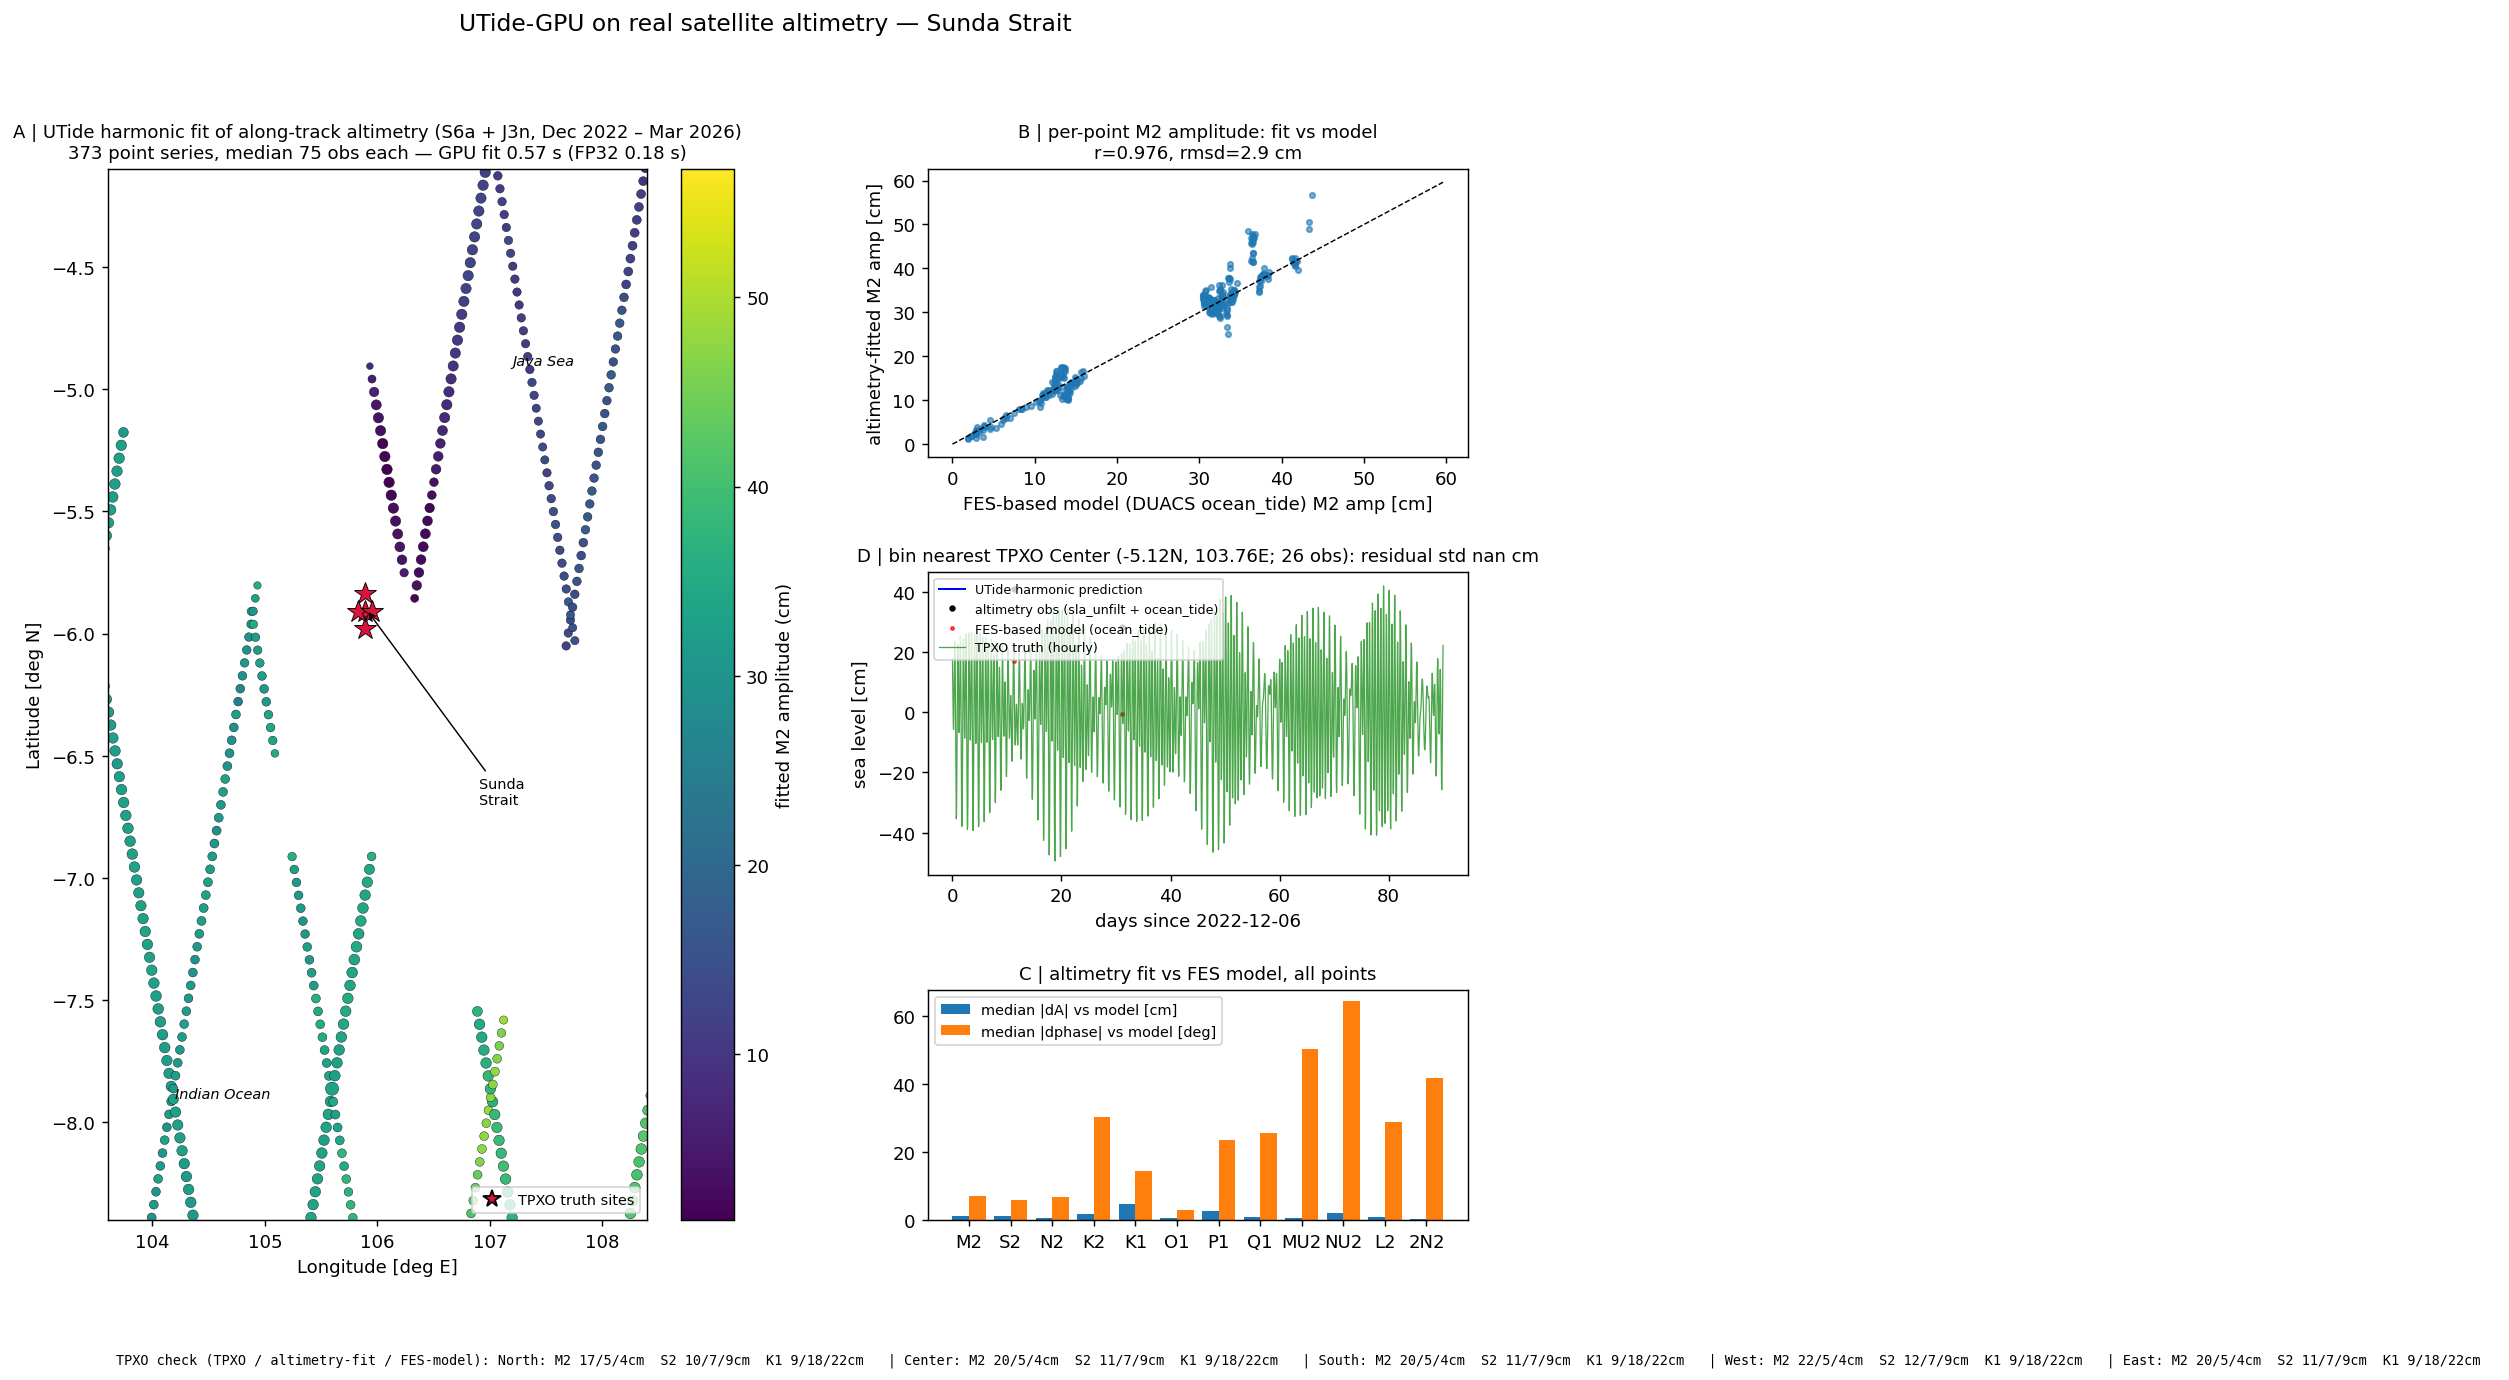
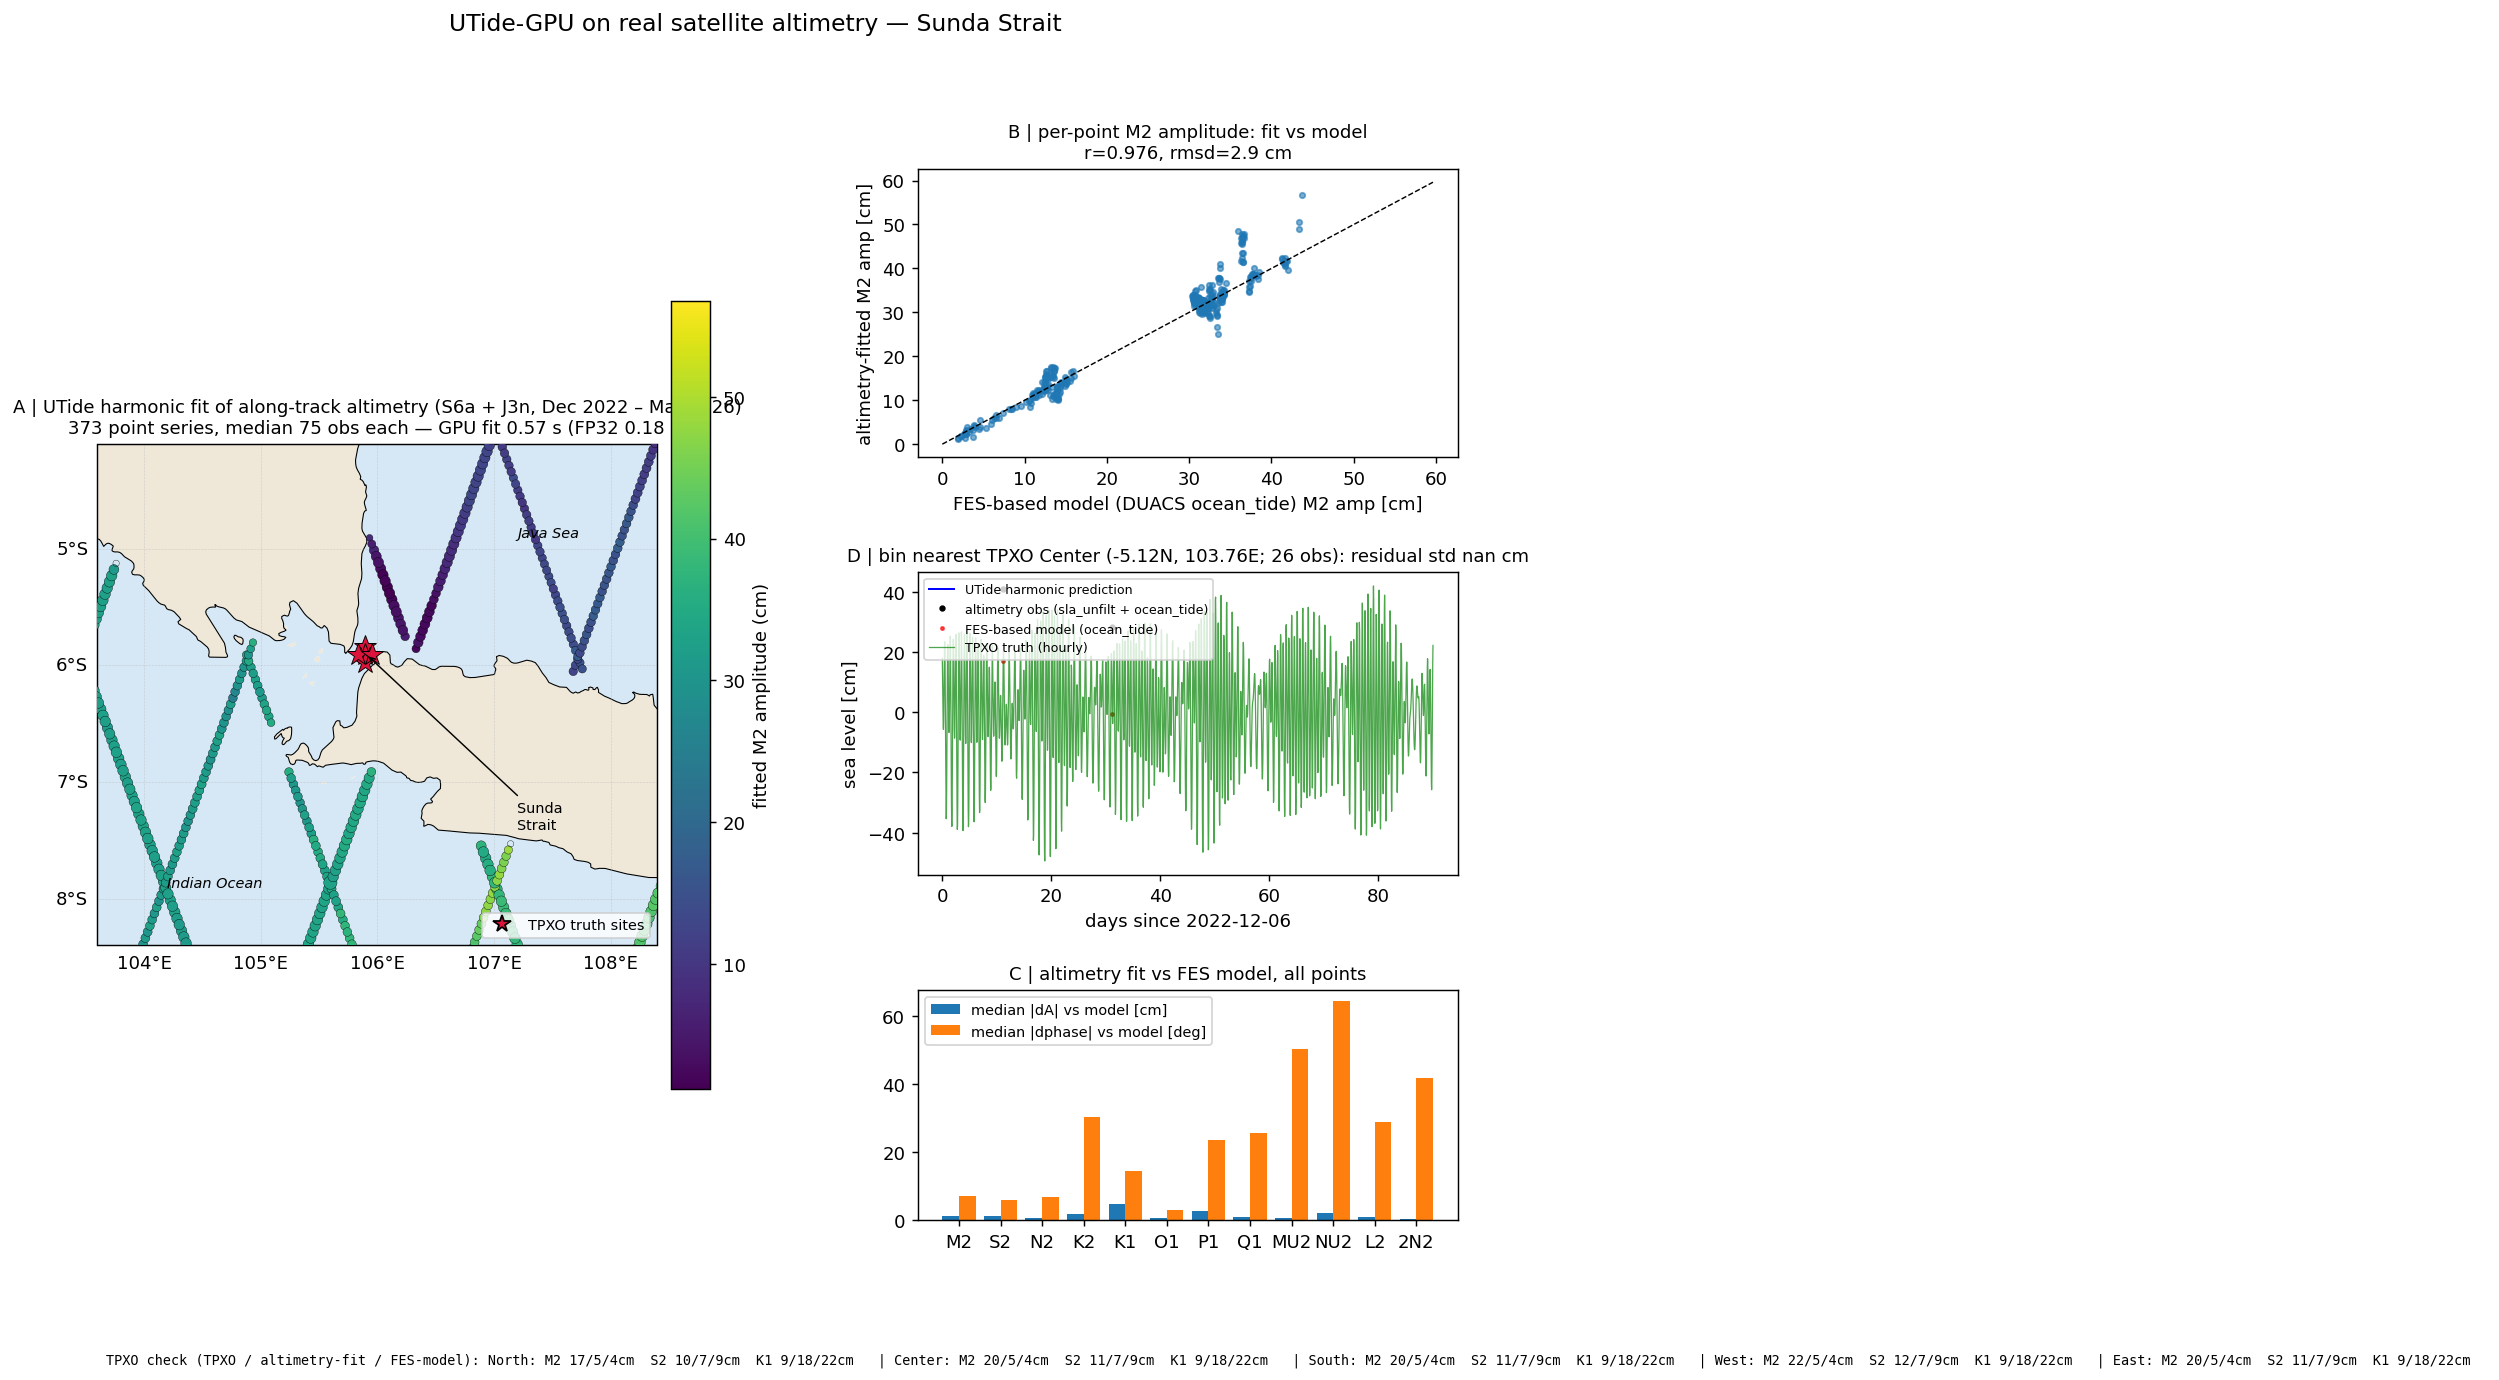
Altimetry demo: cartopy basemap (10m coastlines, land/ocean fill) in map panel

diff --git a/examples/altimetry_sunda.py b/examples/altimetry_sunda.py
@@ -141,17 +141,39 @@ def main():
     import matplotlib
     matplotlib.use("Agg")
     import matplotlib.pyplot as plt
+    try:
+        import cartopy.crs as ccrs
+        import cartopy.feature as cfeature
+        HAVE_CARTOPY = True
+    except ImportError:
+        HAVE_CARTOPY = False
 
     fig = plt.figure(figsize=(13.5, 10.5))
     gs = fig.add_gridspec(3, 2, width_ratios=[1.25, 1], height_ratios=[1, 1.05, 0.8],
                           hspace=0.42, wspace=0.24)
-    axA = fig.add_subplot(gs[:, 0])
+    extent = [lon.min() - 0.3, lon.max() + 0.3, lat.min() - 0.3, lat.max() + 0.3]
+    transform = None
+    if HAVE_CARTOPY:
+        axA = fig.add_subplot(gs[:, 0], projection=ccrs.PlateCarree())
+        axA.set_extent(extent, ccrs.PlateCarree())
+        axA.add_feature(cfeature.LAND.with_scale("10m"), facecolor="#efe8d8", zorder=0)
+        axA.add_feature(cfeature.OCEAN.with_scale("10m"), facecolor="#d6e8f5", zorder=0)
+        axA.coastlines(resolution="10m", linewidth=0.6, zorder=2)
+        gl = axA.gridlines(draw_labels=True, linewidth=0.3, linestyle=":",
+                           x_inline=False, y_inline=False)
+        gl.top_labels = False
+        gl.right_labels = False
+        transform = ccrs.PlateCarree()
+    else:
+        axA = fig.add_subplot(gs[:, 0])
+        axA.set_xlim(extent[:2])
+        axA.set_ylim(extent[2:])
+        axA.set_xlabel("Longitude [deg E]")
+        axA.set_ylabel("Latitude [deg N]")
     sc = axA.scatter(lon, lat, c=A_obs[m2] * 100,
                      s=6 + np.sum(np.isfinite(A_obs), axis=0) / 4, cmap="viridis",
-                     edgecolors="k", linewidths=0.2)
-    plt.colorbar(sc, ax=axA, label="fitted M2 amplitude (cm)")
-    axA.set_xlabel("Longitude [deg E]")
-    axA.set_ylabel("Latitude [deg N]")
+                     edgecolors="k", linewidths=0.2, transform=transform, zorder=5)
+    plt.colorbar(sc, ax=axA, label="fitted M2 amplitude (cm)", shrink=0.75, pad=0.02)
     axA.set_title("A | UTide harmonic fit of along-track altimetry (S6a + J3n)\n"
                   f"{A_obs.shape[1]} point series, one solve_many(gappy='ne') call",
                   fontsize=10)
